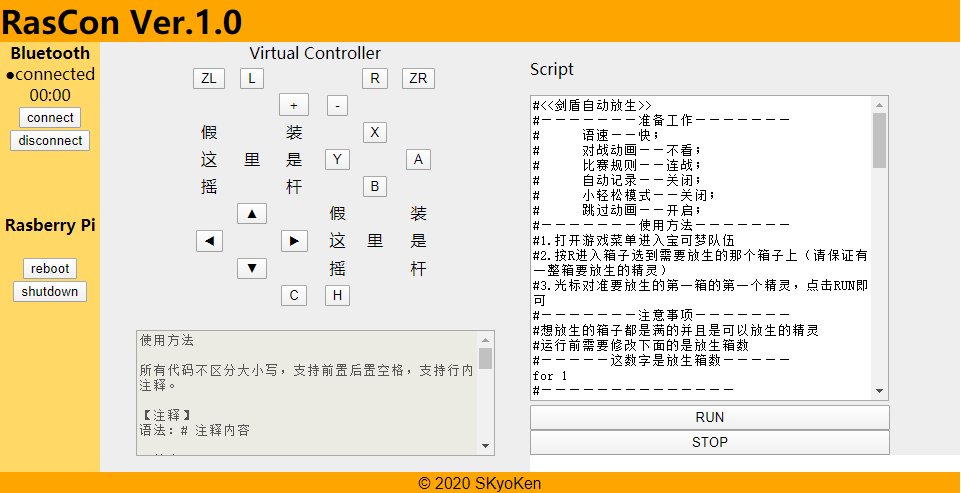
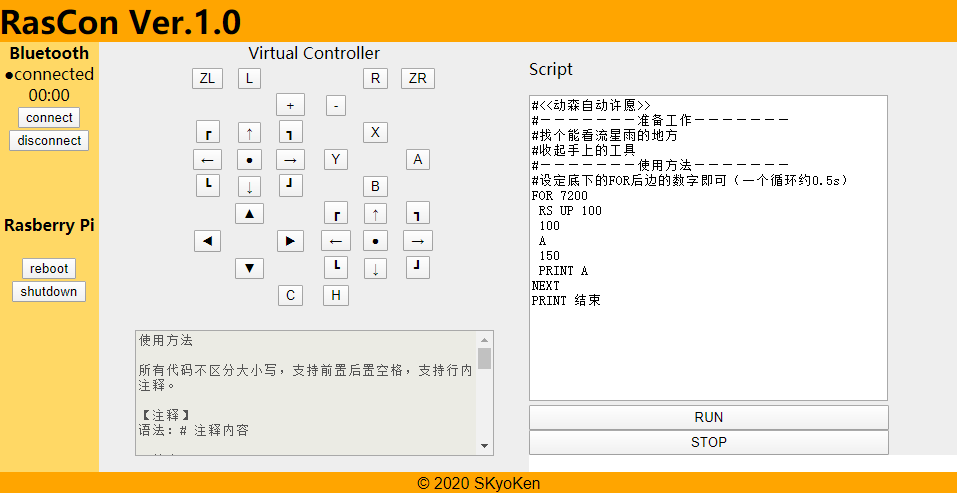
add stick

diff --git a/templates/index.html b/templates/index.html
@@ -1,6 +1,5 @@
 <!DOCTYPE html> <html> <head>
     <title>RasCon ver.1.0</title>
-    <link rel='stylesheet' type='text/css' media='screen' href="static/style.css" />
 </head>
 <body>
 	<div id="container" style="width:960px">
@@ -46,27 +45,27 @@
 			<td></td>
 		</tr>
 		<tr>
-			<td>假</td>
-			<td></td>
-			<td>装</td>
+			<td><form action="/btn" method="POST"><button name="btn" value="">┏</button></form></td>
+			<td><form action="/btn" method="POST"><button name="btn" value="ls up 100">↑</button></form></td>
+			<td><form action="/btn" method="POST"><button name="btn" value="">┓</button></form></td>
 			<td></td>
 			<td></td>
 			<td><form action="/btn" method="POST"><button name="btn" value="x">X</buttonm></form></td>
 			<td></td>
 		</tr>
 		<tr>
-			<td>这</td>
-			<td>里</td>
-			<td>是</td>
+			<td><form action="/btn" method="POST"><button name="btn" value="ls left 100">←</button></form></td>
+			<td><form action="/btn" method="POST"><button name="btn" value="">●</button></form></td>
+			<td><form action="/btn" method="POST"><button name="btn" value="ls right 100">→</button></form></td>
 			<td></td>
 			<td><form action="/btn" method="POST"><button name="btn" value="y">Y</button></form></td>
 			<td></td>
 			<td><form action="/btn" method="POST"><button name="btn" value="a">A</button></form></td>
 		</tr>
 		<tr>
-			<td>摇</td>
-			<td></td>
-			<td>杆</td>
+			<td><form action="/btn" method="POST"><button name="btn" value="">┗</button></form></td>
+			<td><form action="/btn" method="POST"><button name="btn" value="ls down 100">↓</button></form></td>
+			<td><form action="/btn" method="POST"><button name="btn" value="">┛</button></form></td>
 			<td></td>
 			<td></td>
 			<td><form action="/btn" method="POST"><button name="btn" value="b">B</button></form></td>
@@ -76,27 +75,27 @@
 			<td></td>
 			<td><form action="/btn" method="POST"><button name="btn" value="up">▲</buttonm></form></td>
 			<td></td>
-			<td></td>
-			<td>假</td>
-			<td></td>
-			<td>装</td>
+                        <td></td>
+             		<td><form action="/btn" method="POST"><button name="btn" value="">┏</button></form></td>
+			<td><form action="/btn" method="POST"><button name="btn" value="rs up 100">↑</button></form></td>
+			<td><form action="/btn" method="POST"><button name="btn" value="">┓</button></form></td>
 		</tr>
 			<td><form action="/btn" method="POST"><button name="btn" value="left">◀</button></form></td>
 			<td></td>
 			<td><form action="/btn" method="POST"><button name="btn" value="right">▶</button></form></td>
-			<td></td>
-			<td>这</td>
-			<td>里</td>
-			<td>是</td>
+                        <td></td>
+			<td><form action="/btn" method="POST"><button name="btn" value="rs left 100">←</button></form></td>
+			<td><form action="/btn" method="POST"><button name="btn" value="">●</button></form></td>
+			<td><form action="/btn" method="POST"><button name="btn" value="rs right 100">→</button></form></td>
 		</tr>
 		<tr>
 			<td></td>
 			<td><form action="/btn" method="POST"><button name="btn" value="down">▼</button></form></td>
 			<td></td>
 			<td></td>
-			<td>摇</td>
-			<td></td>
-			<td>杆</td>
+			<td><form action="/btn" method="POST"><button name="btn" value="">┗</button></form></td>
+			<td><form action="/btn" method="POST"><button name="btn" value="rs down 100">↓</button></form></td>
+			<td><form action="/btn" method="POST"><button name="btn" value="">┛</button></form></td>
 		</tr>
 		<tr>
 			<td></td>

diff --git a/command.py b/command.py
@@ -55,7 +55,8 @@ class ControllerCLI:
          for command in commands:
              cmd,*args=command.split()
              if cmd in self.available_sticks:
-                 print('side = ',cmd,'direction = ',args[0])
+                 #print('side = ',cmd,'direction = ',args[0],'sec=',args[1])
+                 await self.cmd_stick(cmd,args[0],args[1])
              elif cmd in self.available_buttons: #按钮
                  await button_push(self.controller_state,cmd)
              elif cmd.isdecimal(): #等待（ms）
@@ -64,6 +65,72 @@ class ControllerCLI:
                  print(args[0])
              else: #错误代码
                  print('command',cmd,'not found')
+
+    def _set_stick(stick, direction, value=None):
+        if direction == 'reset':
+            stick.set_center()
+        elif direction == 'up':
+            stick.set_up()
+        elif direction == 'down':
+            stick.set_down()
+        elif direction == 'left':
+            stick.set_left()
+        elif direction == 'right':
+            stick.set_right()
+        elif direction in ('h', 'horizontal'):
+            if value is None:
+                raise ValueError(f'Missing value')
+            try:
+                val = int(value)
+            except ValueError:
+                raise ValueError(f'Unexpected stick value "{value}"')
+            stick.set_h(val)
+        elif direction in ('v', 'vertical'):
+            if value is None:
+                raise ValueError(f'Missing value')
+            try:
+                val = int(value)
+            except ValueError:
+                raise ValueError(f'Unexpected stick value "{value}"')
+            stick.set_v(val)
+        else:
+            raise ValueError(f'Unexpected argument "{direction}"')
+        
+
+        return f'{stick.__class__.__name__} was set to ({stick.get_h()}, {stick.get_v()}).'
+
+    async def cmd_stick(self,side,direction,release_sec=50):
+        """
+        stick - Command to set stick positions.
+        :param side: 'l', 'left' for left control stick; 'r', 'right' for right control stick
+        :param direction: 'center', 'up', 'down', 'left', 'right';
+               'h', 'horizontal' or 'v', 'vertical' to set the value directly to the "value" argument
+        :param value: horizontal or vertical value
+        """
+        
+        try:
+            val = float(release_sec)
+        except ValueError:
+            raise ValueError(f'Unexpected stick release_sec "{release_sec}"')
+        if side == 'ls' :
+            stick = self.controller_state.l_stick_state
+            ControllerCLI._set_stick(stick, direction)
+            await self.stickSet(stick,val/1000)
+        elif side == 'rs':
+            stick = self.controller_state.r_stick_state
+            ControllerCLI._set_stick(stick, direction)
+            await self.stickSet(stick,val/1000)
+        else:
+            raise ValueError('Value of side must be "ls" or "rs"')
+    async def stickSet(self,stick,release_sec):
+        #开始摇杆
+        await self.controller_state.send()
+        await asyncio.sleep(release_sec)
+        #释放摇杆
+        stick.set_center()
+        await self.controller_state.send()
+        await asyncio.sleep(0.05)
+
     async def readCommand(self,file):
         user_input = await self.get(file)
         if not user_input:
@@ -80,6 +147,7 @@ class ControllerCLI:
                 continue
 
             cmd,*args = user_input[i].split()
+            
             if cmd == 'for':
                 for _ in range(int(args[0])):
                     until,forcmd = self.forCheck(i,user_input)
@@ -118,6 +186,11 @@ class ControllerCLI:
                         commands.append(get)
             elif self.isCommand(cmd):
                 commands.append(user_input[i])
+            elif cmd=='test':
+                abc = []
+                abc.append('l')
+                abc.append('r')
+                await button_push(self.controller_state,*abc)
             else:
                 print('commands',cmd,'not found')
 

diff --git a/README.md b/README.md
@@ -1,5 +1,5 @@
 <div align="center">
-  <h1>RasCon Ver.1.0</h1>
+  <h1>RasCon Ver.1.1</h1>
   <p>蓝牙连接Nintendo Switch，并可通过网页控制和使用脚本</p>
   <p>基于开源项目  <a href="https://github.com/mart1nro/joycontrol">joycontrol</a></p>
   <p>
@@ -28,13 +28,46 @@
 raspi3b+（rasbian）下成功运行
 
 ## 初次使用
-需要将jotcontrol项目的joycontrol文件夹复制到该项目目录下
+1.需要将joycontrol项目的joycontrol文件夹复制到该项目目录下
 ```
 sudo git clone https://github.com/SkyoKen/RasCon_NS.git
 
 sudo git clone https://github.com/mart1nro/joycontrol.git
 
 sudo cp -r joycontrol/joycontrol RasCon_NS/
+```
+2.修改joycontrol中的controller_state.py的设定
+```
+sudo nano RasCon_NS/joycontrol/controller_state.py
+```
+将约18行的`self.l_stick_state = self.r_stick_state = None`之后关于joycon的初期设定
+
+```python
+         if controller in (Controller.PRO_CONTROLLER, Controller.JOYCON_L):
+             # load calibration data from memory
+             calibration = None
+             if spi_flash is not None:
+                 calibration_data = spi_flash.get_user_l_stick_calibration()
+                 if calibration_data is None:
+                     calibration_data = spi_flash.get_factory_l_stick_calibration()
+                 calibration = LeftStickCalibration.from_bytes(calibration_data)
+             self.l_stick_state = StickState(calibration=calibration)
+         # create right stick state
+         if controller in (Controller.PRO_CONTROLLER, Controller.JOYCON_R):
+             # load calibration data from memory
+             calibration = None
+             if spi_flash is not None:
+                 calibration_data = spi_flash.get_user_r_stick_calibration()
+                 if calibration_data is None:
+                     calibration_data = spi_flash.get_factory_r_stick_calibration()
+                 calibration = RightStickCalibration.from_bytes(calibration_data)
+             self.r_stick_state = StickState(calibration=calibration)
+```
+改为
+
+```python
+         self.l_stick_state = StickState(0x07FF, 0x07FF, calibration = _StickCalibration(0x07FF, 0x07FF, 0x07FF, 0x07FF, 0x07FF, 0x07FF))
+         self.r_stick_state = StickState(0x07FF, 0x07FF, calibration = _StickCalibration(0x07FF, 0x07FF, 0x07FF, 0x07FF, 0x07FF, 0x07FF))
 ```
 ## 快速运行
 1．打开终端，运行命令
@@ -73,5 +106,6 @@ A：确认hci0是否存在，运行命令`hciconfig`
 蓝牙模拟ns手柄实现剑盾自动化 [poke_auto_joy](https://github.com/xxwsL/poke_auto_joy)
 
 小白也能写的自动化脚本 [EasyCon（伊机控）](https://github.com/nukieberry/PokemonTycoon)
+
 
 

diff --git a/README_JP.md b/README_JP.md
@@ -28,13 +28,44 @@
 raspi3b +（rasbian）で正常に実行されます。
 
 ## 使用する前に
-jotcontrolプロジェクトのjoycontrolフォルダーをこのプロジェクトディレクトリにコピーする必要があります。
+1.joycontrolプロジェクトのjoycontrolフォルダーをこのプロジェクトディレクトリにコピーする必要があります。
 ```
 sudo git clone https://github.com/SkyoKen/RasCon_NS.git
 
 sudo git clone https://github.com/mart1nro/joycontrol.git
 
 sudo cp -r joycontrol/joycontrol RasCon_NS/
+```
+2.joycontrolフォルダ中のcontroller_state.pyの設定を編集
+```
+sudo nano RasCon_NS/joycontrol/controller_state.py
+```
+约18行の`self.l_stick_state = self.r_stick_state = None`の下にjoyconの初期設定を削除
+```python
+         if controller in (Controller.PRO_CONTROLLER, Controller.JOYCON_L):
+             # load calibration data from memory
+             calibration = None
+             if spi_flash is not None:
+                 calibration_data = spi_flash.get_user_l_stick_calibration()
+                 if calibration_data is None:
+                     calibration_data = spi_flash.get_factory_l_stick_calibration()
+                 calibration = LeftStickCalibration.from_bytes(calibration_data)
+             self.l_stick_state = StickState(calibration=calibration)
+         # create right stick state
+         if controller in (Controller.PRO_CONTROLLER, Controller.JOYCON_R):
+             # load calibration data from memory
+             calibration = None
+             if spi_flash is not None:
+                 calibration_data = spi_flash.get_user_r_stick_calibration()
+                 if calibration_data is None:
+                     calibration_data = spi_flash.get_factory_r_stick_calibration()
+                 calibration = RightStickCalibration.from_bytes(calibration_data)
+             self.r_stick_state = StickState(calibration=calibration)
+```
+下のコードを追加
+```python
+         self.l_stick_state = StickState(0x07FF, 0x07FF, calibration = _StickCalibration(0x07FF, 0x07FF, 0x07FF, 0x07FF, 0x07FF, 0x07FF))
+         self.r_stick_state = StickState(0x07FF, 0x07FF, calibration = _StickCalibration(0x07FF, 0x07FF, 0x07FF, 0x07FF, 0x07FF, 0x07FF))
 ```
 ## 実行
 1．ターミナルを開き、コマンドを実行します
@@ -73,5 +104,6 @@ A：hci0が存在するかどうかを確認、`hciconfig`を実行します
 蓝牙模拟ns手柄实现剑盾自动化 [poke_auto_joy](https://github.com/xxwsL/poke_auto_joy)
 
 小白也能写的自动化脚本 [EasyCon（伊机控）](https://github.com/nukieberry/PokemonTycoon)
+
 
 

diff --git a/README_EN.md b/README_EN.md
@@ -28,13 +28,44 @@
 Successfully run under raspi3b + (rasbian)
 
 ## Before use
-Need to copy the joycontrol folder of the jotcontrol project to this project directory
+1.Need to copy the joycontrol folder of the jotcontrol project to this project directory
 ```
 sudo git clone https://github.com/SkyoKen/RasCon_NS.git
 
 sudo git clone https://github.com/mart1nro/joycontrol.git
 
 sudo cp -r joycontrol/joycontrol RasCon_NS/
+```
+2.Need to change `controller_state.py`
+```
+sudo nano RasCon_NS/joycontrol/controller_state.py
+```
+Change the code
+```python
+         if controller in (Controller.PRO_CONTROLLER, Controller.JOYCON_L):
+             # load calibration data from memory
+             calibration = None
+             if spi_flash is not None:
+                 calibration_data = spi_flash.get_user_l_stick_calibration()
+                 if calibration_data is None:
+                     calibration_data = spi_flash.get_factory_l_stick_calibration()
+                 calibration = LeftStickCalibration.from_bytes(calibration_data)
+             self.l_stick_state = StickState(calibration=calibration)
+         # create right stick state
+         if controller in (Controller.PRO_CONTROLLER, Controller.JOYCON_R):
+             # load calibration data from memory
+             calibration = None
+             if spi_flash is not None:
+                 calibration_data = spi_flash.get_user_r_stick_calibration()
+                 if calibration_data is None:
+                     calibration_data = spi_flash.get_factory_r_stick_calibration()
+                 calibration = RightStickCalibration.from_bytes(calibration_data)
+             self.r_stick_state = StickState(calibration=calibration)
+```
+to
+```python
+         self.l_stick_state = StickState(0x07FF, 0x07FF, calibration = _StickCalibration(0x07FF, 0x07FF, 0x07FF, 0x07FF, 0x07FF, 0x07FF))
+         self.r_stick_state = StickState(0x07FF, 0x07FF, calibration = _StickCalibration(0x07FF, 0x07FF, 0x07FF, 0x07FF, 0x07FF, 0x07FF))
 ```
 ## Run
 1．Open one terminal, and run the command
@@ -73,5 +104,6 @@ A：Check if hci0 exists，run `hciconfig`
 蓝牙模拟ns手柄实现剑盾自动化 [poke_auto_joy](https://github.com/xxwsL/poke_auto_joy)
 
 小白也能写的自动化脚本 [EasyCon（伊机控）](https://github.com/nukieberry/PokemonTycoon)
+
 
 
